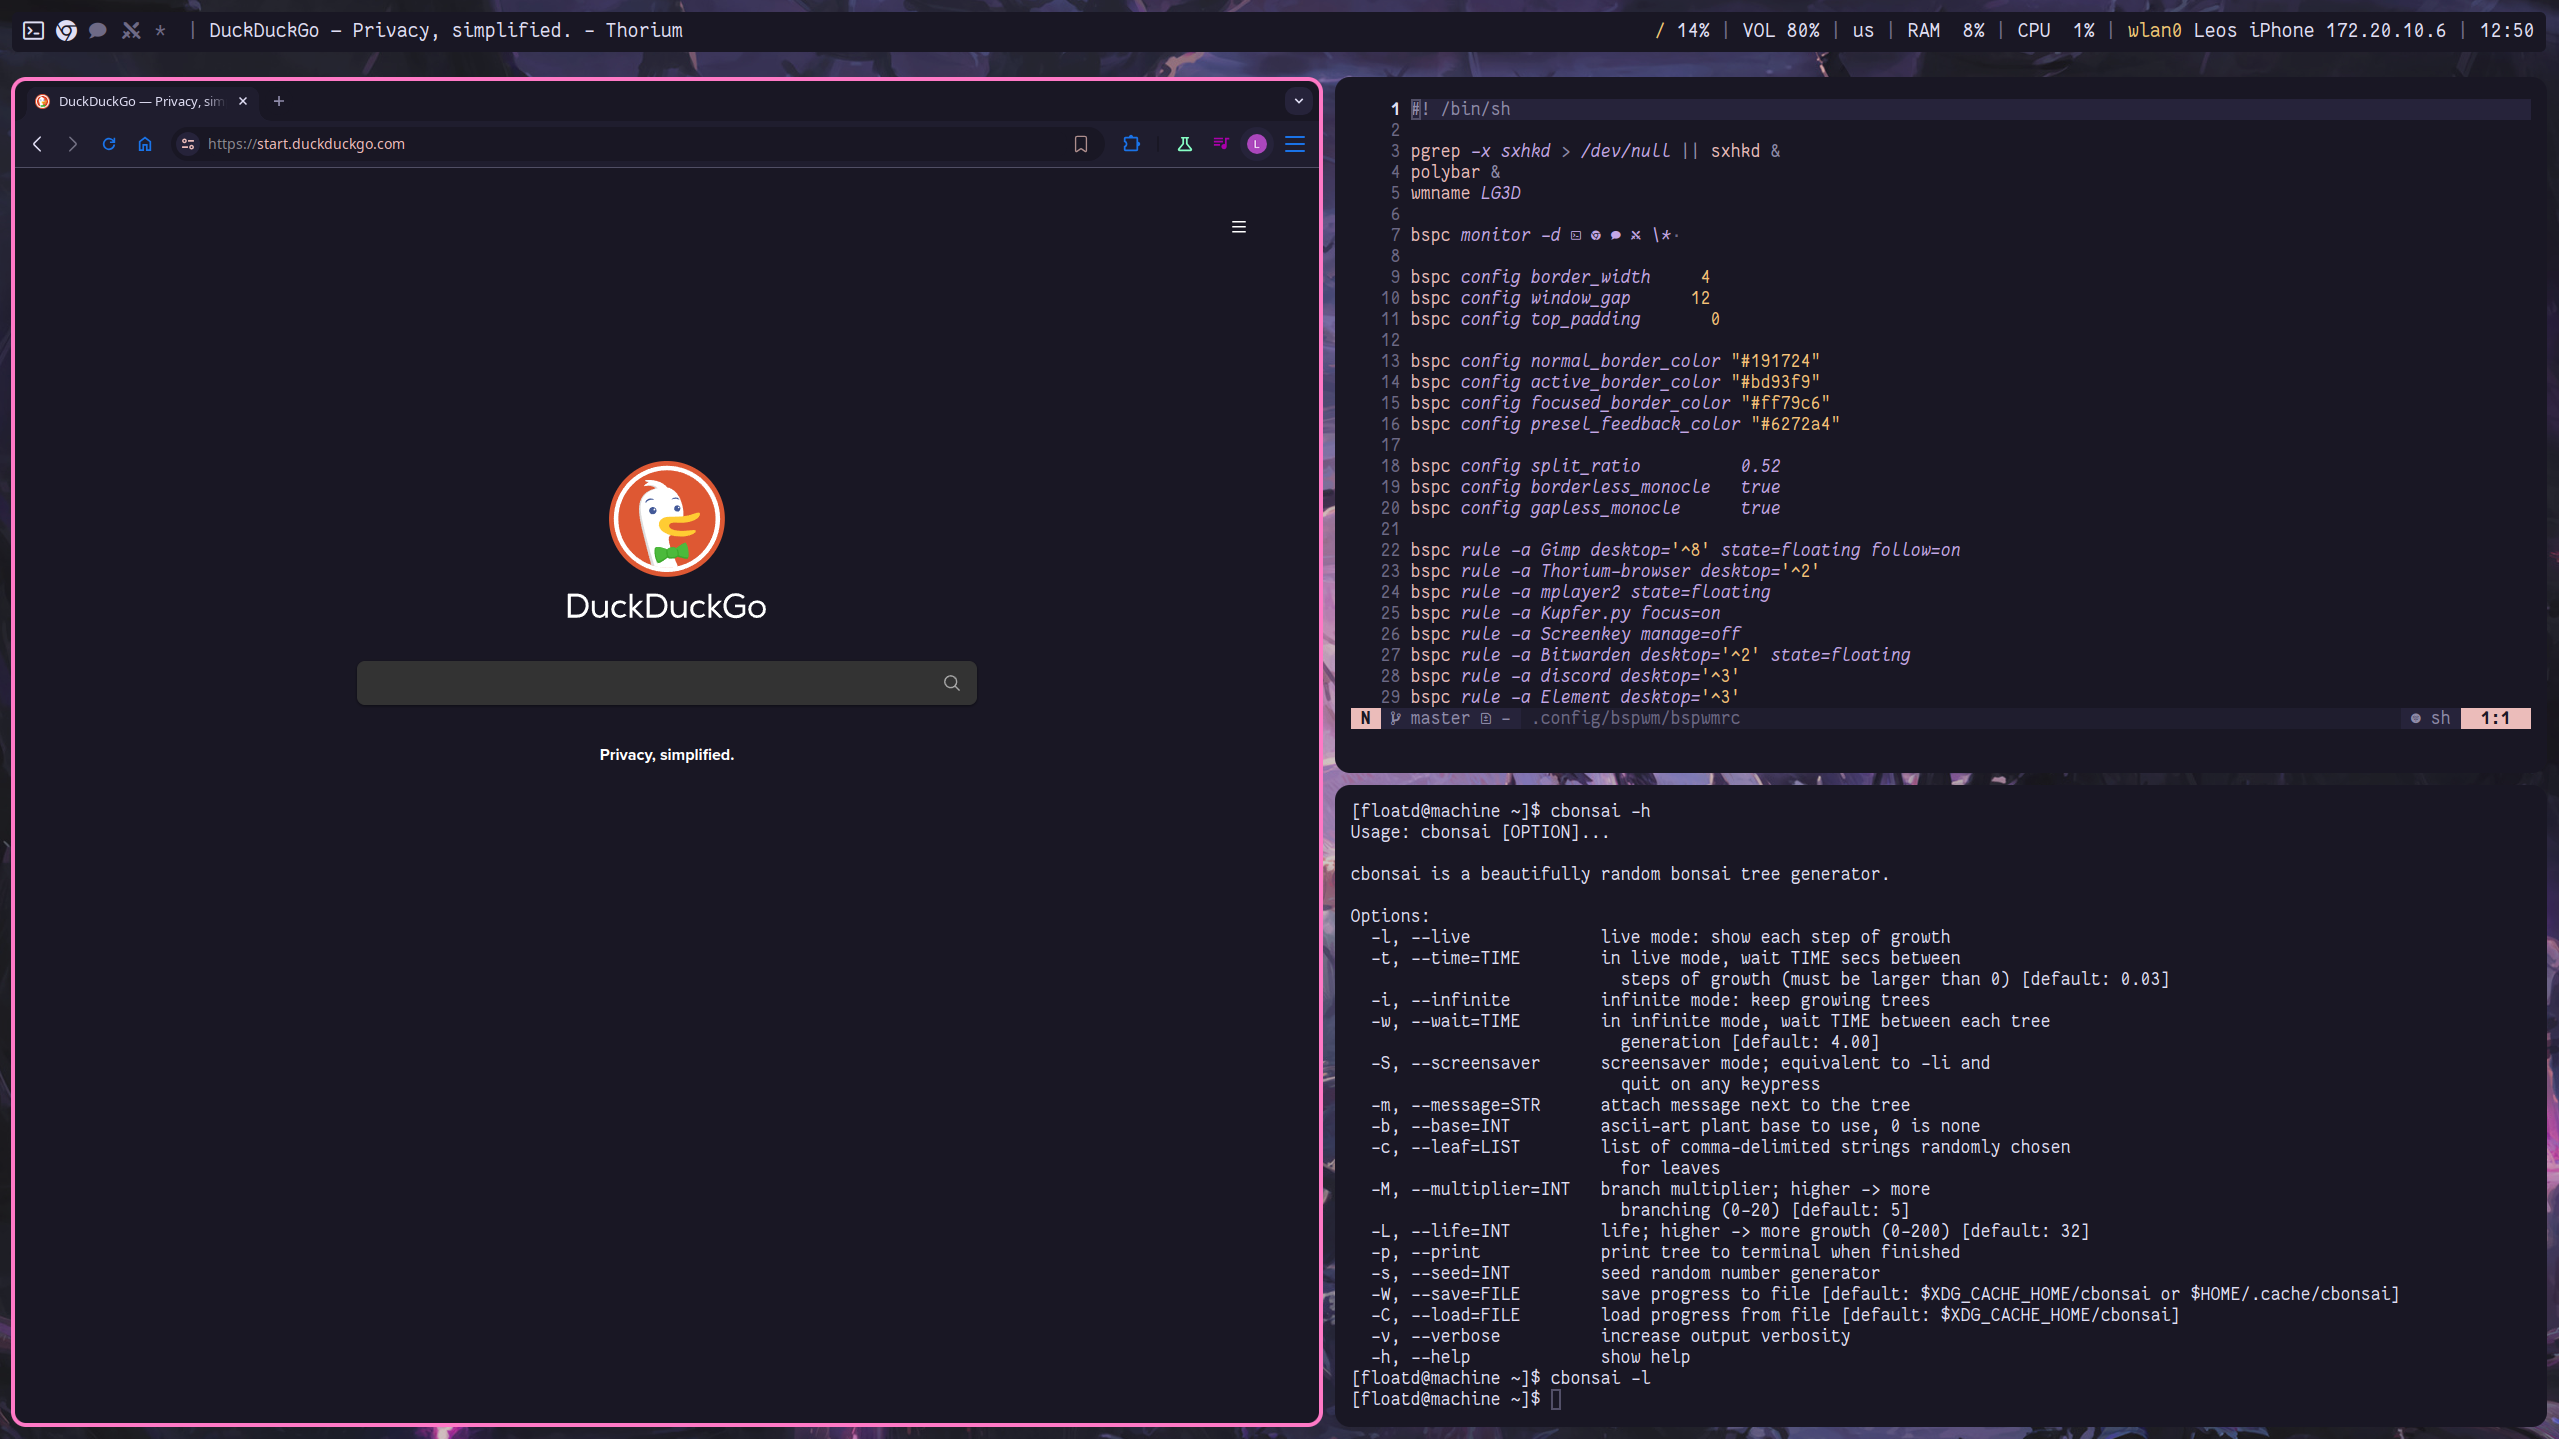
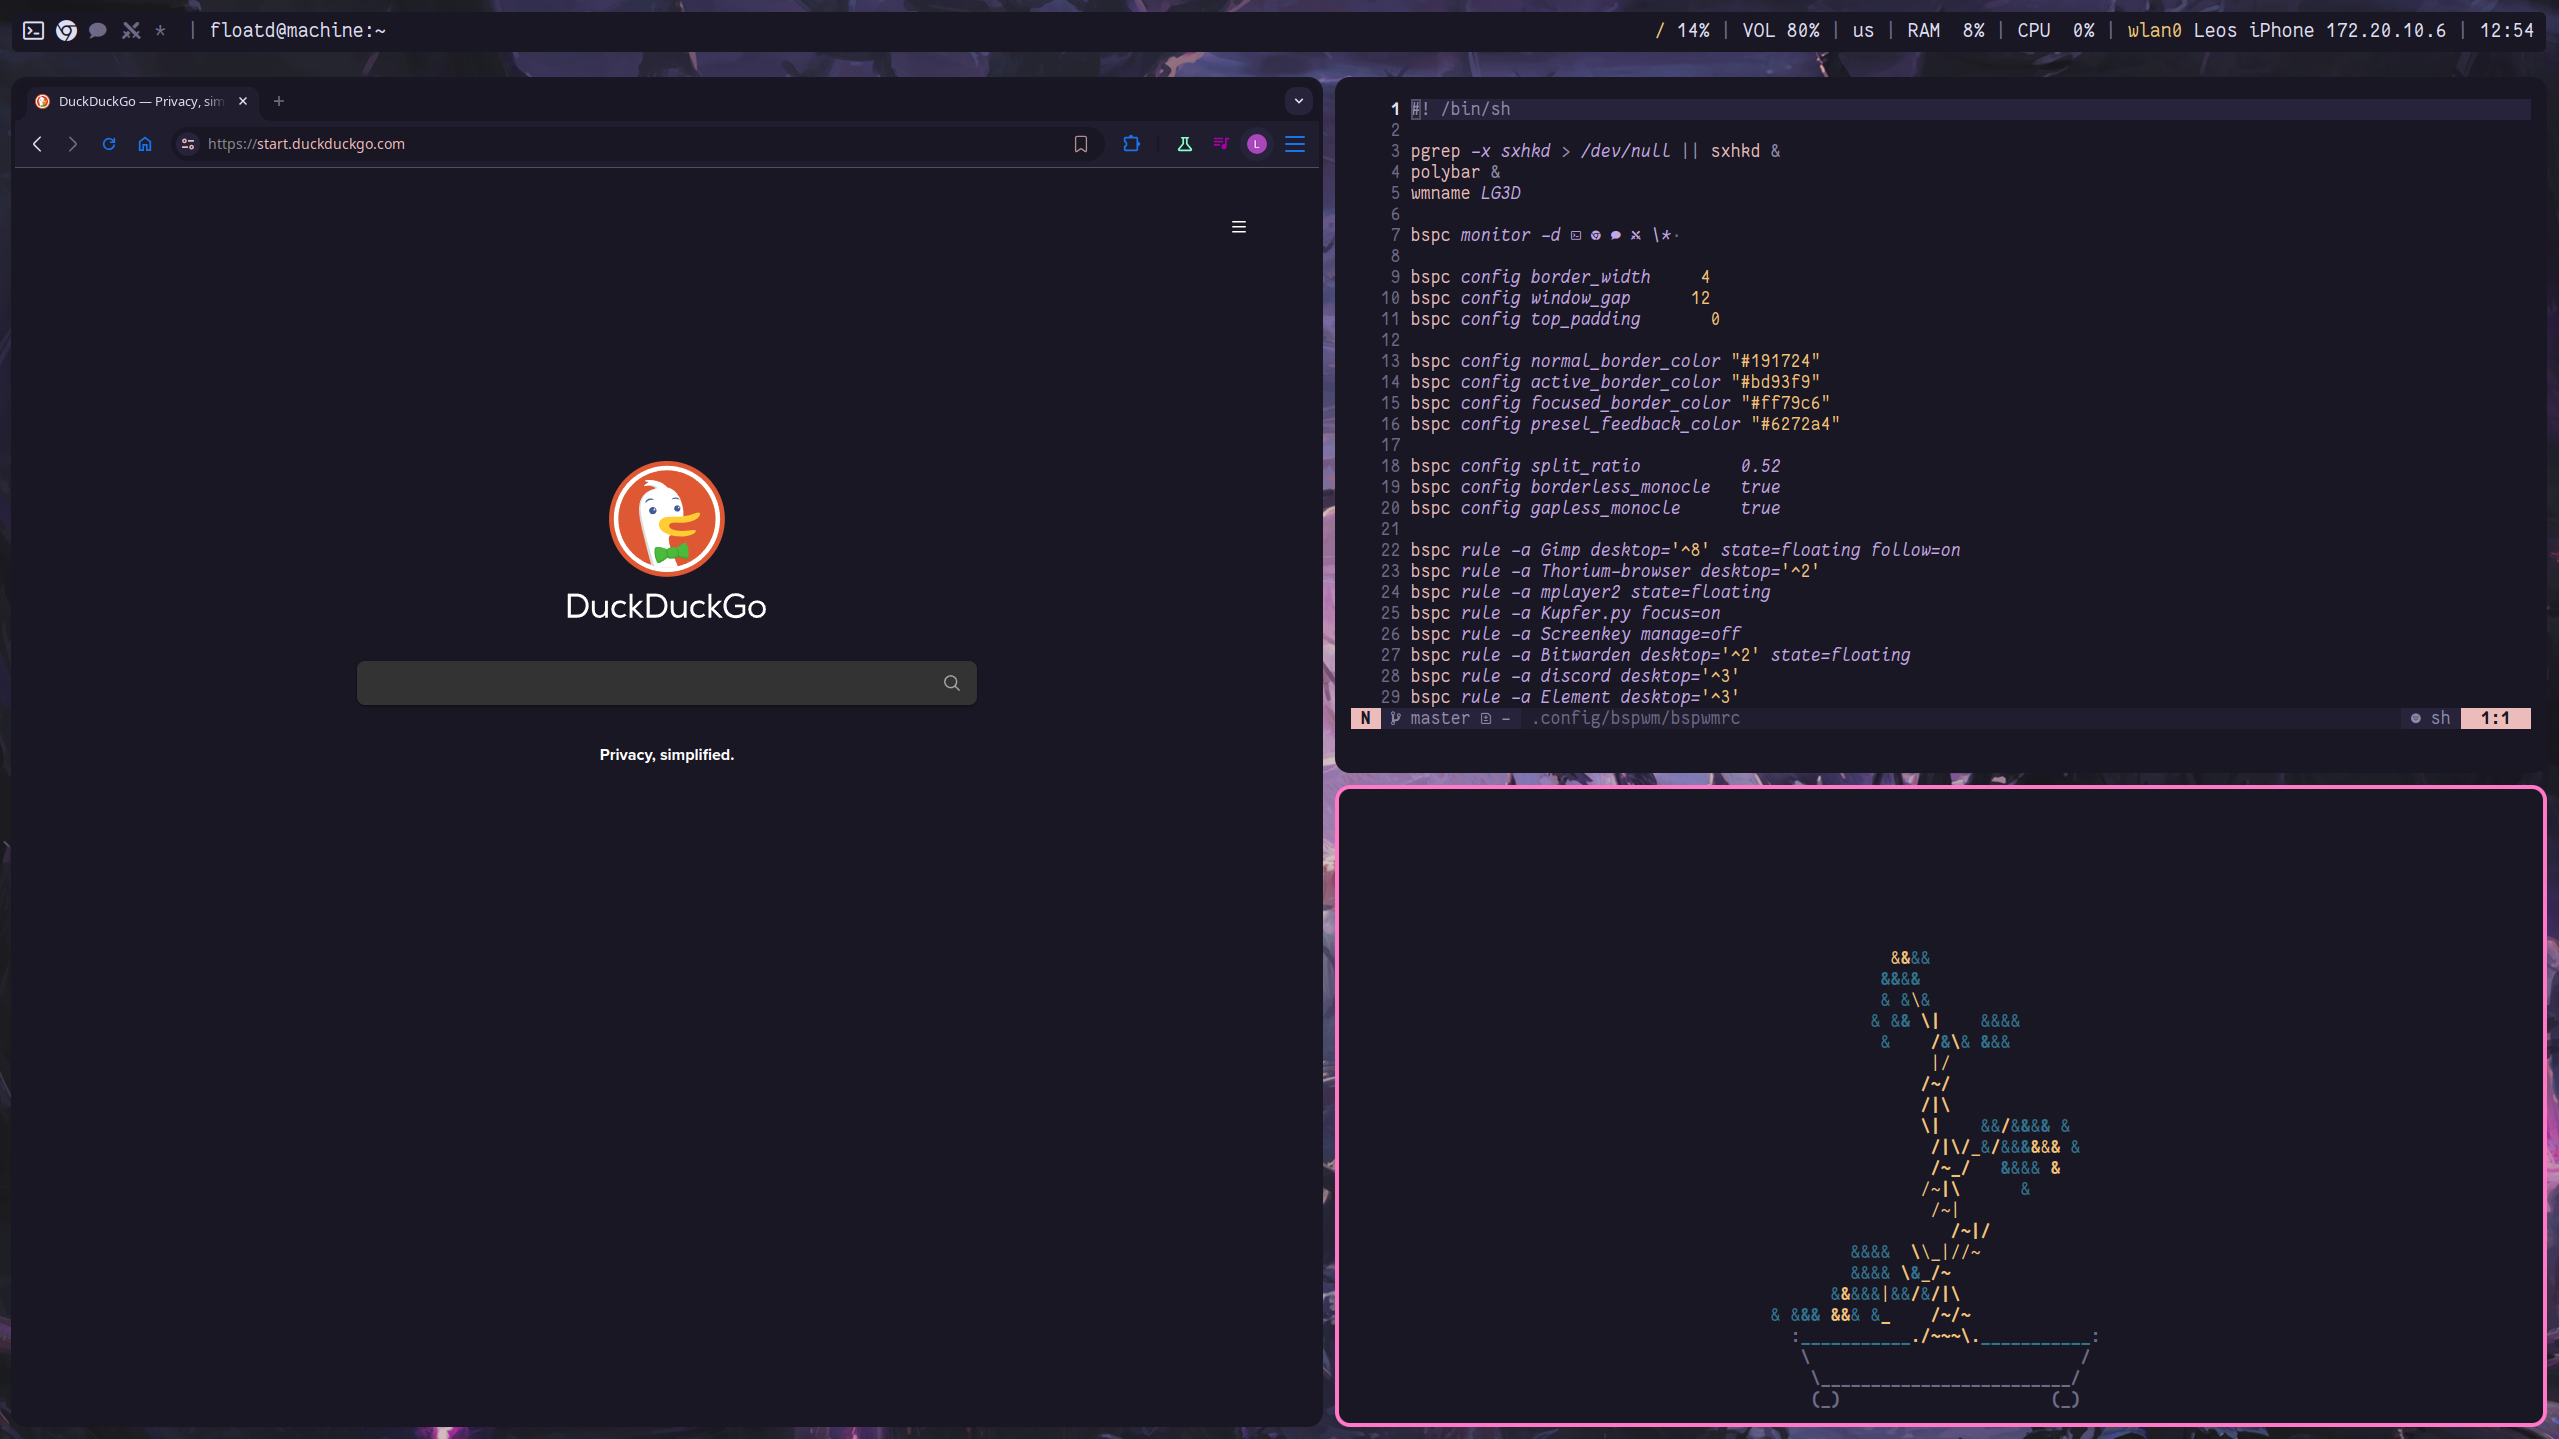
Fixed image and added text

Changed region(s): [[0.0, 0.5504, 1.0, 1.0], [0.6174, 0.6421, 0.9261, 0.9479], [0.0926, 0.0, 0.2161, 0.0306]]

diff --git a/README.md b/README.md
@@ -1,3 +1,5 @@
 # ~/.dotfiles
 
+Bspwm with rose-pine theme
+
 ![](https://github.com/FloatD/dotfiles/blob/master/pic/bspwm.png)
